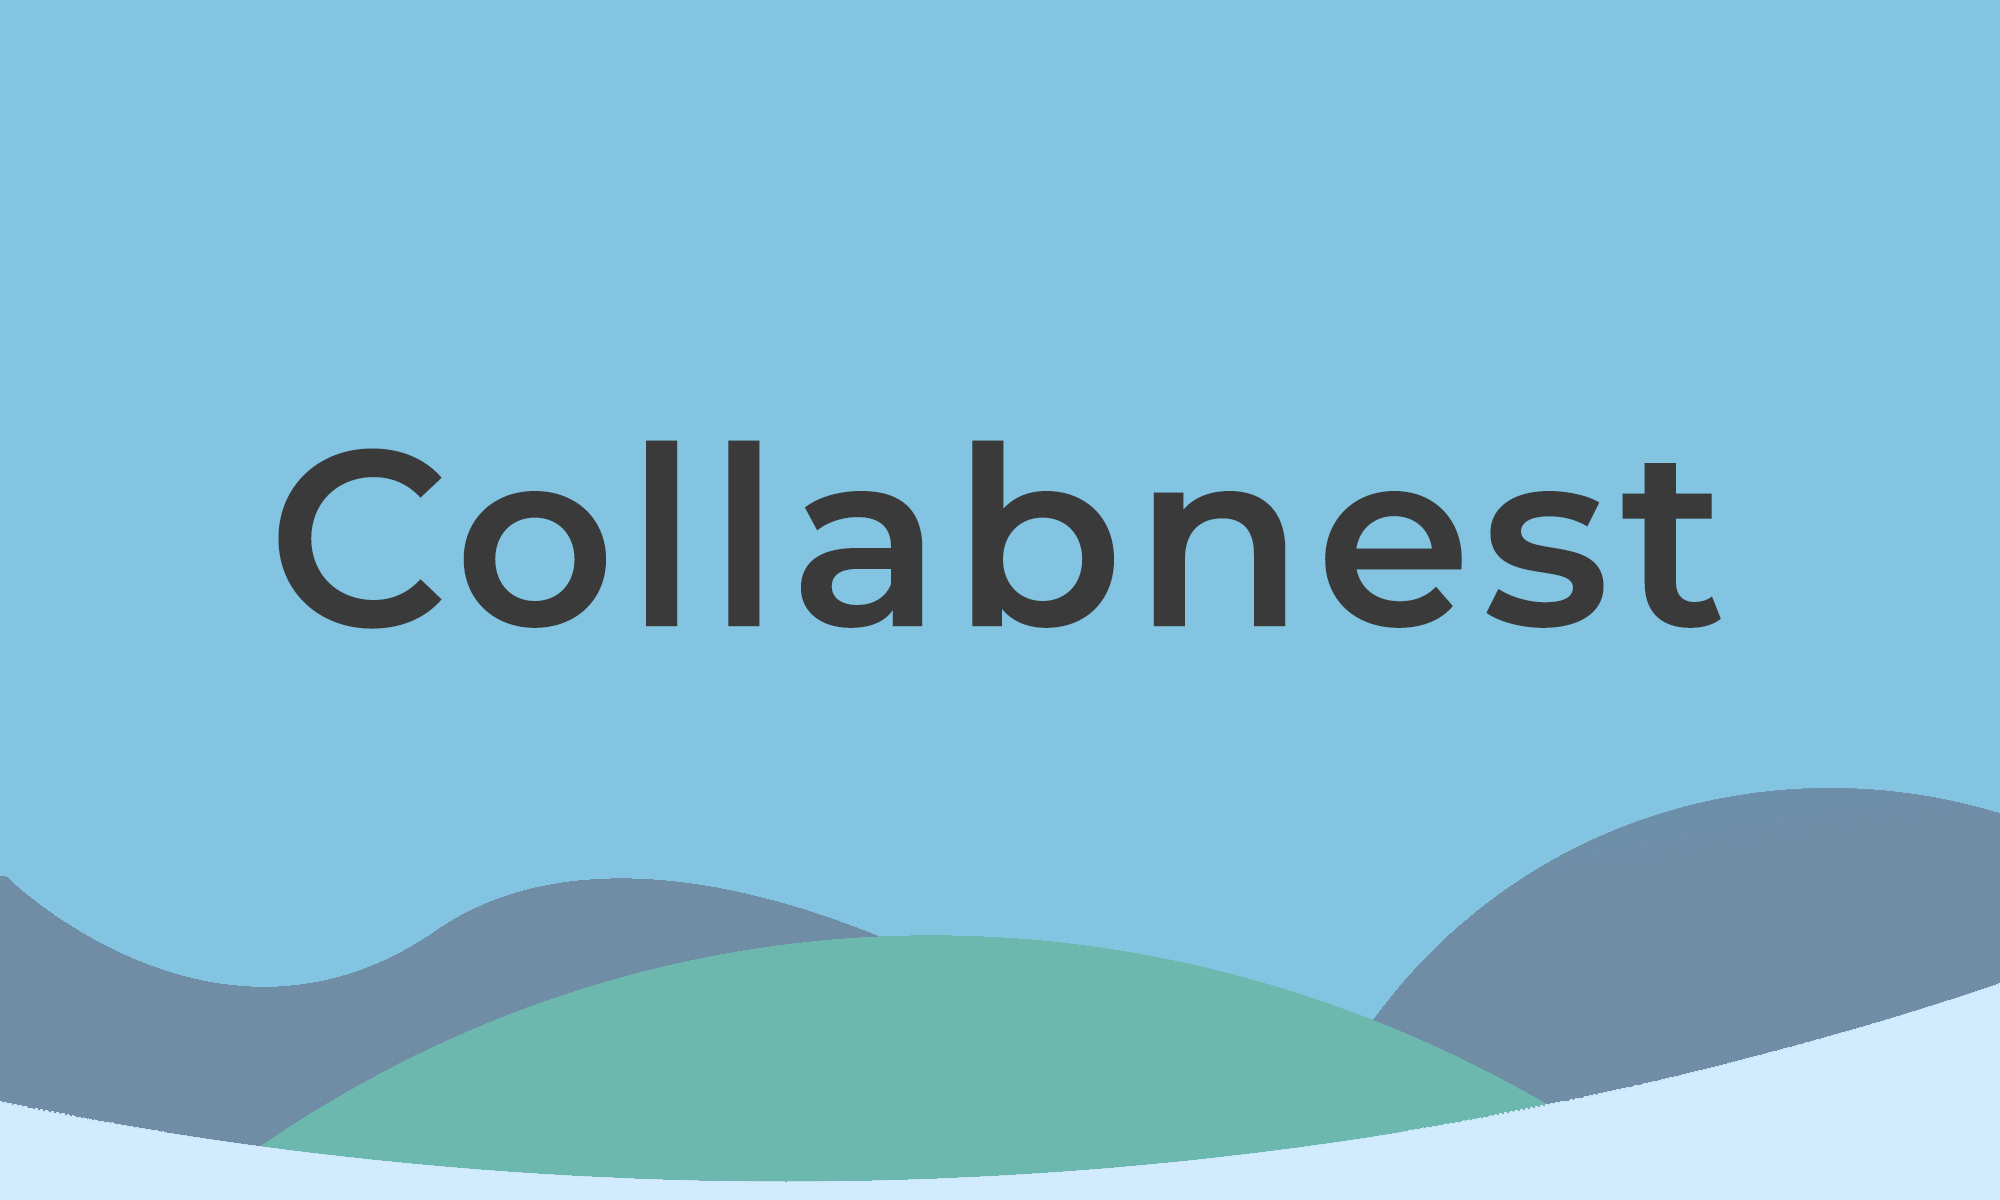
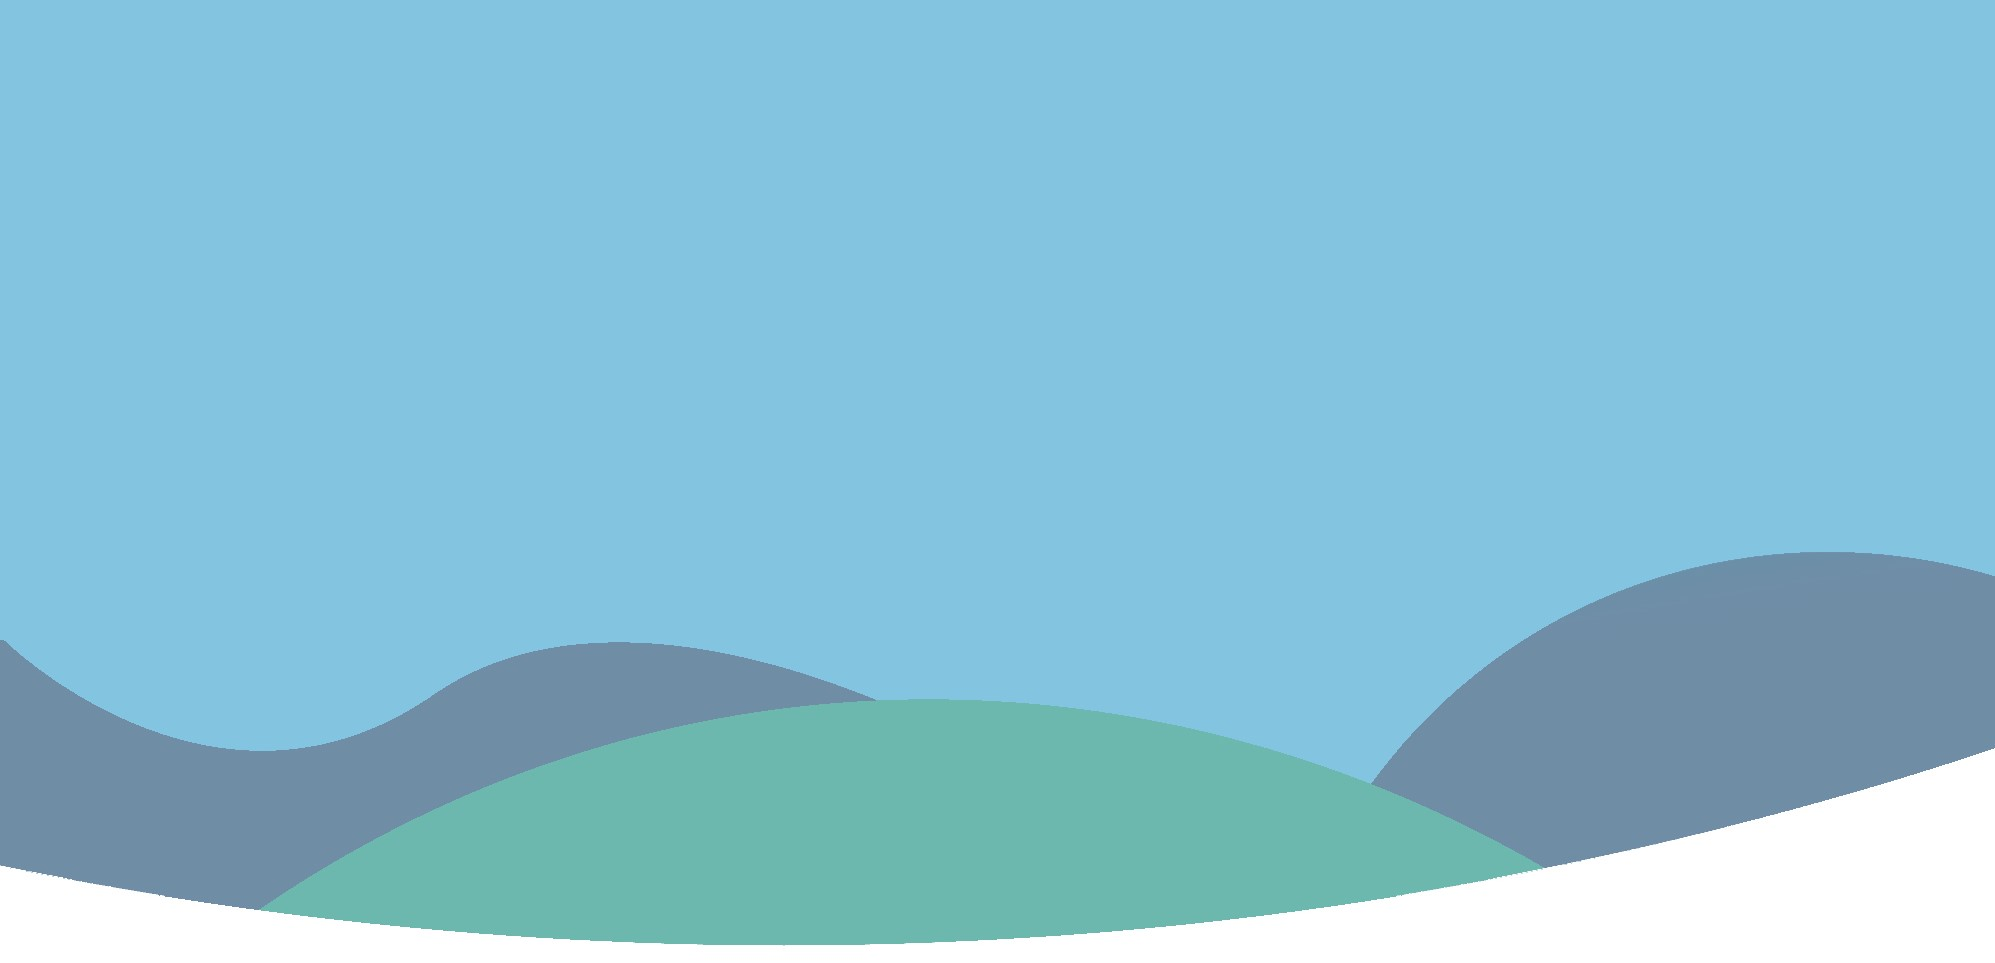
proto

Changed region(s): [[0.0, 0.5607, 1.0, 1.0], [0.1243, 0.3427, 0.8702, 0.5296]]

diff --git a/client/src/Pages/SignUp.js b/client/src/Pages/SignUp.js
@@ -1,0 +1,47 @@
+import React from 'react';
+import {
+    Card, Row, Col, CardBody,
+    CardTitle, Input, Button, CardLink
+  } from 'reactstrap';
+import {Link} from "react-router-dom";
+import {Helmet} from "react-helmet";
+import NavBar from '../Components/NavBar';
+
+const signin = props => {
+    return (
+        <div>
+            <Helmet>
+                <title>Sign Up - Collabnest</title>
+            </Helmet>
+            <NavBar></NavBar>
+            <section className="banner">
+                {/* <img src={banner}/> */}
+                <div className="lgn-card">
+                    <Row>
+                        <Col md="4"></Col>
+                        <Col md="4">
+                            <Card>
+                                <CardBody className="auth-ls">
+                                    <CardTitle>Create a new Collabnest account</CardTitle>
+                                    <Input type="text" name="username" id="username" placeholder="Username"/>
+                                    <Input type="email" name="email" id="email" placeholder="Email"/>
+                                    <Input type="password" name="pass" id="pass" placeholder="Password"/>
+                                    <Input type="password" id="re_pass" placeholder="Confirm password"/>
+                                    <div className="d-flex justify-content-center">
+                                       <Button color='primary'>Sign up</Button>
+                                    </div>
+                                    <div className="cr-lgn">
+                                        <CardLink tag={Link} to="/signin">Log in to existing account</CardLink>
+                                    </div>
+                                </CardBody>
+                            </Card>
+                        </Col>
+                        <Col md="4"></Col>
+                    </Row>
+                </div>
+            </section>
+        </div>
+    );
+}
+
+export default signin;

diff --git a/client/src/Pages/SignIn.js b/client/src/Pages/SignIn.js
@@ -1,0 +1,45 @@
+import React from 'react';
+import {
+    Card, Row, Col, CardBody,
+    CardTitle, Input, Button, CardLink
+  } from 'reactstrap';
+import {Link} from "react-router-dom";
+import {Helmet} from "react-helmet";
+import NavBar from '../Components/NavBar';
+
+const signin = props => {
+    return (
+        <div>
+            <Helmet>
+                <title>Sign in - Collabnest</title>
+            </Helmet>
+            <NavBar></NavBar>
+            <section className="banner">
+                {/* <img src={banner}/> */}
+                <div className="lgn-card">
+                    <Row>
+                        <Col md="4"></Col>
+                        <Col md="4">
+                            <Card>
+                                <CardBody className="auth-ls">
+                                    <CardTitle>Sign in to Collabnest</CardTitle>
+                                    <Input type="email" name="email" id="email" placeholder="Email"/>
+                                    <Input type="password" name="pass" id="pass" placeholder="Password"/>
+                                    <div className="d-flex justify-content-center">
+                                       <Button color='primary'>Sign in</Button>
+                                    </div>
+                                    <div className="cr-lgn">
+                                        <CardLink tag={Link} to="/signup">Create an Collabnest account</CardLink>
+                                    </div>
+                                </CardBody>
+                            </Card>
+                        </Col>
+                        <Col md="4"></Col>
+                    </Row>
+                </div>
+            </section>
+        </div>
+    );
+}
+
+export default signin;

diff --git a/client/src/Pages/intro.js b/client/src/Pages/intro.js
@@ -1,11 +1,11 @@
 import React from 'react';
 import {Button} from 'reactstrap';
-import {Link} from 'react-router-dom';
 import {Helmet} from "react-helmet";
 import NavBar from '../Components/NavBar';
 // import banner from '../assets/img/v2.jpg';
 
-const intr = props => {
+const intr = ({history}) => {
+    
     return (
         <div>
             <Helmet>
@@ -16,7 +16,7 @@ const intr = props => {
                 {/* <img src={banner}/> */}
                 <h1 className="bn-cap">Collabnest</h1>
                 <div className="bn-but">
-                    <Button color="info" size="lg"><Link to="/signin">Get started</Link></Button>
+                    <Button onClick={() => history.push('/signin')} color="info" size="lg">Get started</Button>
                 </div>
             </section>
         </div>

diff --git a/client/src/assets/css/App.css b/client/src/assets/css/App.css
@@ -31,7 +31,7 @@ body {
 }
 
 .banner {
-  background-image: url('../img/v1.png');
+  background-image: url('../img/v1.jpg');
   height: 120vh;
   background-repeat: no-repeat;
   background-size: 100%;
@@ -63,4 +63,33 @@ body {
 .bn-but > button > a {
   text-decoration: none;
   color: #fff;
+}
+
+.lgn-card {
+  padding-top: 4rem;
+}
+
+.auth-ls > .card-title {
+  text-align: center;
+  color: #3a3a3a;
+  font-size: 1.5rem;
+  margin: 2rem auto;
+}
+
+.auth-ls {
+  margin: .2rem 2rem;
+}
+
+.auth-ls > input {
+  margin: 1.5rem auto;
+}
+
+.auth-ls > div > button {
+  width: 25rem;
+}
+
+.auth-ls > .cr-lgn {
+  margin: 1rem auto;
+  text-align: end;
+  font-size: .9rem;
 }

diff --git a/client/src/App.js b/client/src/App.js
@@ -1,14 +1,16 @@
 import React from 'react';
 import {Switch, Route} from 'react-router-dom';
-import Intro from "./Pages/intro";
+import Intro from "./Pages/Intro";
+import SignIn from "./Pages/SignIn";
+import SignUp from "./Pages/SignUp";
 import './assets/css/App.css';
 
 function App() {
   return (
     <Switch>
         <Route path="/" component={Intro} exact />
-        <Route path="/signin" component={Intro} />
-        <Route path="/signup" component={Intro} />
+        <Route path="/signin" component={SignIn} />
+        <Route path="/signup" component={SignUp} />
     </Switch>
   );
 }
